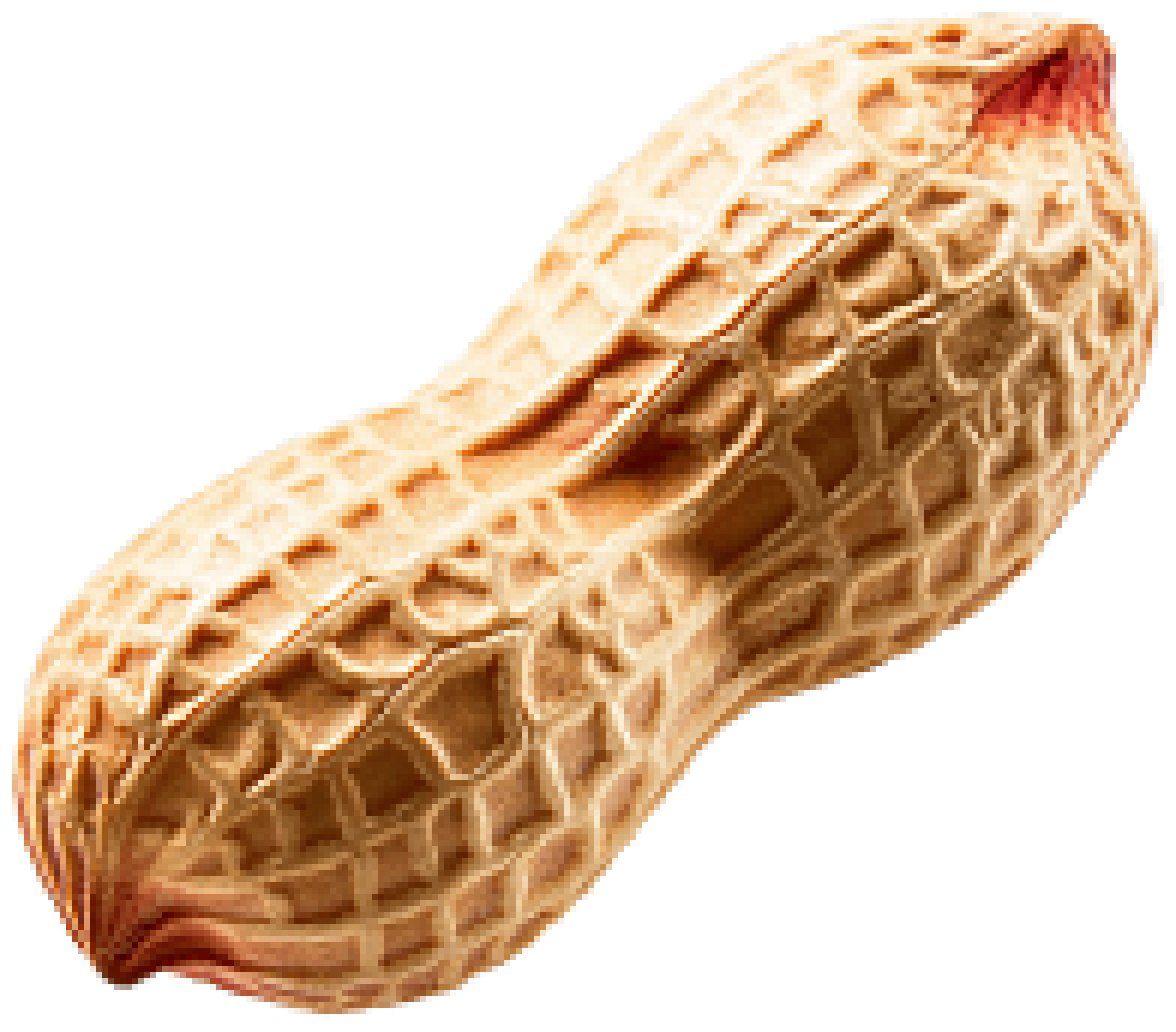
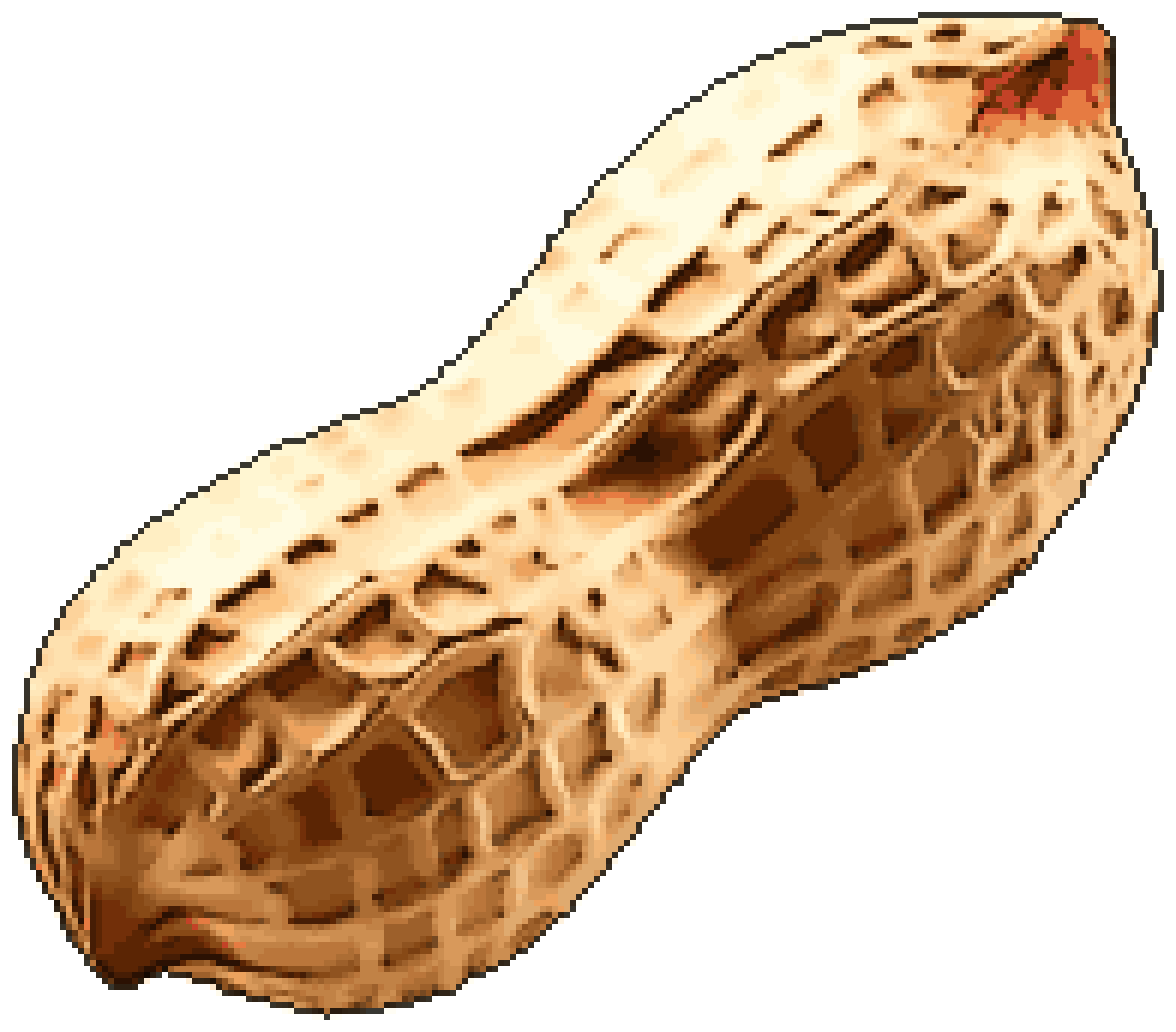
241차 보강: 작물 초상 픽셀 아트 grade — 툰 추상화 파이프라인 · 참고본 실측 · 땅콩 재생성 · 문서
- tools/pixelize_crops.cjs: --style pixelart 기본 = 양방향 평활 ×3 → 대비/채도 → 밝기 6단 양자화 → DoG 먹선 → 셀 다운샘플 → k-means 32색 → 윤곽선
  (--levels/--bilateral/--sigr/--dog/--edge/--sat/--contrast 옵션 · 시험 --out에서는 CropPortraits.ts를 덮지 않음)
- 사용자 첨부 바칸/곽크릴 「픽셀 아트 grade」 변환본 실측(셀 3~4px · 윤곽 어두움 94% · 밝기 양봉) → 기준으로 채택
- public/crops/crop_peanut.png · _icon.png 재생성(팔레트 30 · 테두리 어두움 100%) · 위키 Version 41
- 문서: photo-pixel-art.md §3.5 참고본 기준 · 한계 · 권장 흐름 / 워크로그 241 §5.1 2차 지시 대조 / asset-pipeline 스킬 ⑤ / 백로그 BQ / AGENTS §9 / CLAUDE.md

Claude-Session: https://claude.ai/code/session_01PDUQVGZzM1dMSLCg8bzsf6

Changed region(s): [[0.0, 0.0, 1.0, 0.9922]]

diff --git a/docs/wiki/02-SYSTEMS/photo-pixel-art.md b/docs/wiki/02-SYSTEMS/photo-pixel-art.md
@@ -1,6 +1,7 @@
 # S25. 실사 도트 에셋 — 어종 · 작물 초상(사진 → 도트) 품질 기준
 
 > 상태 **🔶 부분** — 기준 · 도구 · 배선은 241차에 섰고, 작물 초상은 땅콩 1장(시연). 관련 차수 241 · 어종 원본은 2026-07~09 사용자 투입.
+> ⚠ 241차 2차 지시: 「사진 복붙이 아니라 **픽셀 아트 grade**로 조정」 — 기준은 §3.5(사용자 제공 바칸 · 곽크릴 변환본), 도구는 툰 추상화(`--style pixelart`).
 > 캐릭터 · NPC 도트는 [`character-art.md`](character-art.md), 에셋 투입 절차는 스킬 `asset-pipeline`.
 
 ---
@@ -37,6 +38,28 @@
 - 어종은 셀 안에 noise 22의 부드러운 텍스처가 남아 있다(PixelOE 출력을 보간 확대한 흔적). 작물 초상은 **평평한 셀**(최근접 확대)로 굽는다 —
   「노이즈 · 왜곡 제어」 기준에서 더 깨끗하고, 축소해도 떨림이 없다.
 
+## 3.5 픽셀 아트 grade — 사용자 참고본 실측(바칸 · 곽크릴 · 2026-10-13)
+
+사용자가 사진 → 변환본 두 쌍을 보여 주며 「사진을 그대로 블록화한 것은 픽셀 아트 grade가 아니다」라고 지적했다(땅콩 1차본).
+참고본(1024px · AI 변환 뒤 piskel 손질 — `it_bakkan_danax.png` 596px · `it_krill_box.png` 558px로 게임에 들어가 있다)의 특징과 실측:
+
+| 특징 | 참고본 실측 | 사진 블록(1차 땅콩) | 툰 추상화(최종 땅콩) |
+|---|---|---|---|
+| 셀 | 3~4px @1024(가로 250~340셀) · 게임 PNG는 2px @596 | 6px · 196셀 | 6px · 196셀 |
+| 실루엣 테두리의 어두운 비율 | 바칸 94% · 곽크릴 66~75%(흰 상자는 회색 선) | 0% | 100%(색을 22%로 어둡게 — 흰 → 회색 · 베이지 → 갈색) |
+| 밝기 분포 | 양봉(바칸 — 검은 끈 48% · 흰 몸통 30%) — 면이 몇 단으로 갈린다 | 고르게 퍼짐(사진 그대로) | 6단 + 먹선 |
+| 색 수 | 1.6만~6만(안티에일리어싱 · webp 잡음 — 90%를 덮는 색은 바칸 1,550) | 3,700 | 팔레트 30 · 실제 52 |
+| 질감 | 선으로 단순화(크릴 가닥 · 바칸 무늬) | 사진 노이즈 그대로 | DoG 먹선(땅콩 그물 · 바칸 끈 · 로고) |
+
+**툰 추상화 절차**(`tools/pixelize_crops.cjs --style pixelart` — Winnemöller 2006): 작업 해상도(셀 × 2) → 양방향 필터 3회(σs 1.2셀 · σr 22)
+→ 대비 1.1 · 채도 1.15 → 밝기 6단 양자화(부드러운 문턱) → DoG 먹선(σ 0.5셀 · φ 3) → 셀로 면적 평균 → k-평균 32색(디더 없음) → 실루엣 윤곽 → 최근접 ×6.
+같은 사진으로 돌린 바칸은 끈 · 빨간 테 · 로고 · 녹색 라벨이 남고, 땅콩은 그물이 선으로 서며 베이지 면이 띠로 갈린다(`scratchpad/art/cmp_*3.png`).
+
+**한계 · 권장 흐름**: 참고본은 생성 모델이 물체 구조를 알고 다시 그린 것이라, 고전 필터는 끈 두께 · 로고 같은 **구조를 새로 그리지 못하고**
+사진에 있는 선만 뽑는다(곽크릴 사진처럼 배경이 지저분하면 그대로 지저분하다). 주력 물건(바칸 · 곽크릴처럼 화면에 자주 뜨는 것)은
+**사용자의 변환 흐름(AI 변환 → piskel 손질)** 이 정답이고, 이 도구는 ① 수십 장을 한 번에 같은 grade로 맞추는 **정규화기**(셀 · 윤곽 · 팔레트 · 크기) ②
+사진만 있을 때의 **대체본**이다. 조정 손잡이: `--levels`(단) · `--sat` · `--contrast` · `--edge`(선 진하기) · `--dog`(선 굵기) · `--colors`.
+
 ## 4. 세부과제 현황
 
 | 과제 | 상태 | 차수 |
@@ -44,7 +67,8 @@
 | 5기준 실측기 · 어종 53장 표 · 깃발(알파 전면 <255 · 셀 없음 · 셀 굵음 · 작음 · 대문자 파일명) | ✅ | **241** |
 | 작물 초상 파이프라인(배경 벗기기 BFS + 닫힘 · 타이트 크롭 · 면적 평균 셀 격자 · 언샤프 · 최근접 ×6 · 64px 아이콘 · 자동 목록) | ✅ | **241** |
 | 가방 · 상세 · 도감 배선(초상 있으면 그것, 없으면 16px 손그림) | ✅ | **241** |
-| 땅콩 시연(사용자 사진 448×404 → 1176×1032 · 셀 196 · 밝기 158±62 · 색 3,701) | ✅ | **241** |
+| 땅콩 시연(사용자 사진 448×404 → 1176×1032 · 셀 196) — 1차 사진 블록(색 3,701) → **2차 툰 추상화**(팔레트 30 · 색 52 · 테두리 어두움 100% · 그물 먹선) | ✅ | **241** |
+| 픽셀 아트 grade 참고본 실측(§3.5) · 툰 추상화 파이프라인 · 바칸 · 곽크릴 사진으로 대조 | ✅ | **241** |
 | 작물 초상 73장(나머지 작물) | ⬜ | 사용자 사진 투입 대기(컨테이너는 이미지를 못 받는다) |
 | 어종 알파 정규화(252~253 → 255 · 유령 1 → 0) 10장 · 셀 2px 7장 재굽기 · 셀 ≥ 12px 3장 · `So-iuy_mullet.png` 소문자화 | ⬜ | 사용자 결정(바이너리 교체) — `--fix-alpha` 사본으로 미리 본다 |
 | 위키 그림 = 초상(있으면) · 손그림(없으면) | ✅ | **241** — `tools/wiki_img/px_crop_peanut.png`는 초상 3셀/px 축소본 |
@@ -56,6 +80,7 @@
 - 어종 정합은 **두 방향**이 있다 — ⓐ 어종을 기준값(셀 6 · 알파 정규화)으로 다시 굽기, ⓑ 기준을 「셀 4~9 허용」으로 느슨하게.
   권장은 ⓐ의 알파 정규화만 먼저(무손실에 가깝다), 셀 재굽기는 원본 사진이 있을 때.
 - 16px 아이콘을 초상에서 내려 만드는 것은 뭉개진다(실측 — 32셀 64px도 「색 적음」 깃발). 손그림 아이콘은 유지한다.
+- **보정 자료 요청**: 질감 많은 농산물(딸기 · 상추 · 감자 같은 것) 사진 + 사용자 변환본 2~3쌍과 변환에 쓴 도구 · 설정을 받으면 손잡이 기본값을 그 grade에 맞춘다.
 
 ## 6. 함정·불변조건
 
@@ -65,3 +90,5 @@
 4. `check_art_quality.cjs`의 셀 추정은 자기상관 최대값 0.25 문턱 — 그림자 · 비네팅이 큰 사진은 셀 1(사진)로 오판할 수 있다. 눈으로 한 번 더 본다.
 5. 가방 칸(66px)에 초상 원본(1,176px)을 바로 쓰면 축소 떨림이 난다 — 반드시 64px 아이콘 판(`cropicon_*`)을 쓴다(`cropPortraitTexture`가 72px 문턱으로 가른다).
 6. 순수 PNG 코덱(`lib_png.cjs`)은 8비트 비인터레이스만 — 16비트 · 인터레이스 PNG는 크롬 디코드 경로(Playwright)로 넘어간다.
+7. **시험용 `--out` 폴더로 돌릴 때 `CropPortraits.ts`를 덮지 않는다**(241 — 기본 출력 폴더일 때만 목록을 다시 쓴다). 한 번 덮여 `git checkout`으로 되돌린 적이 있다.
+8. **`--style photo`(사진 블록)는 픽셀 아트 grade가 아니다** — 사용자 지적(241). 기본은 `pixelart`(툰 추상화). 배경이 지저분한 사진(곽크릴 쇠판)은 `--nocut`이 아니라 흰 배경 사진을 다시 받는다.

diff --git a/docs/wiki/04-BACKLOG.md b/docs/wiki/04-BACKLOG.md
@@ -11,7 +11,7 @@
 | # | 항목 | 시스템 | 선행 | 규모 |
 |---|---|---|---|---|
 | BH | **229차 잔여** — ① ~~「미끼용 크릴」 그림~~ 230 ✅(`item_krill_bait`) ② ~~파산 뒤 「타이틀로」 = 마지막 침대 저장분~~ 231 ✅(즉시 삭제) ③ 종별 외포란 시기(지금은 4~9월 공통) ④ 바칸 ↔ 쿨러 차별(해수 · 산소) ⑤ 패류독소 발령은 지역 둘뿐(지역 추가 시 `seaZoneOf`) — 상세 [229 §6](03-WORKLOG/2026-10-07-229-law-feedback-krill-economy-board-art.md) | [해루질](02-SYSTEMS/night-hunting-trap.md) | 사용자 답 · 에셋 | 소 |
-| BQ | **241차 잔여(새 작물 · 개량종 · 날로 먹기 · 작물 초상)** — ① **작물 초상 사진 73장 = 사용자 투입**(`food assets/crops/<수확물 기본 id>.png` · 흰 배경 → `node tools/pixelize_crops.cjs`) ② **어종 에셋 정합 = 사용자 결정** — 알파 전면 252~253 + 유령 픽셀 10장(`check_art_quality.cjs --fix-alpha` 사본) · 셀 2px(사진 그대로) 7장 · 셀 ≥ 12px 3장 · `So-iuy_mullet.png` 대문자 ③ 개량종 해금은 241 이후 거둔 횟수만(구세이브 완화 — 전체 `harvests` ≥ 3이면 열기 검토) ④ 스테비아 농법 확장 · 개량종 추가(대추토마토 · 꿀고구마 · 오이맛고추) ⑤ 날로 먹기 벌칙(설사 · 과식)은 사용자 「가벼운 정보」 지시로 미도입 ⑥ 16px 손그림 아이콘을 초상에서 내려 만들기(뭉개짐 — 보류) ⑦ 하모니 원장 F-0088 · F-0095 상태 갱신은 예약 작업 몫 — 상세 [241 §6](03-WORKLOG/2026-10-13-241-new-crops-varieties-raw-eating-crop-art.md) | [홈](02-SYSTEMS/home-base.md) · [실사 도트](02-SYSTEMS/photo-pixel-art.md) | ① ② 사용자 | 소~중 |
+| BQ | **241차 잔여(새 작물 · 개량종 · 날로 먹기 · 작물 초상)** — ① **작물 초상 사진 73장 = 사용자 투입**(`food assets/crops/<수확물 기본 id>.png` · 흰 배경 → `node tools/pixelize_crops.cjs` — 툰 추상화 = 픽셀 아트 grade 근사) · **보정 자료 2~3쌍(사진 ↔ 변환본) + 변환 도구 · 설정 = 사용자** ② **어종 에셋 정합 = 사용자 결정** — 알파 전면 252~253 + 유령 픽셀 10장(`check_art_quality.cjs --fix-alpha` 사본) · 셀 2px(사진 그대로) 7장 · 셀 ≥ 12px 3장 · `So-iuy_mullet.png` 대문자 ③ 개량종 해금은 241 이후 거둔 횟수만(구세이브 완화 — 전체 `harvests` ≥ 3이면 열기 검토) ④ 스테비아 농법 확장 · 개량종 추가(대추토마토 · 꿀고구마 · 오이맛고추) ⑤ 날로 먹기 벌칙(설사 · 과식)은 사용자 「가벼운 정보」 지시로 미도입 ⑥ 16px 손그림 아이콘을 초상에서 내려 만들기(뭉개짐 — 보류) ⑦ 하모니 원장 F-0088 · F-0095 상태 갱신은 예약 작업 몫 — 상세 [241 §6](03-WORKLOG/2026-10-13-241-new-crops-varieties-raw-eating-crop-art.md) | [홈](02-SYSTEMS/home-base.md) · [실사 도트](02-SYSTEMS/photo-pixel-art.md) | ① ② 사용자 | 소~중 |
 | BP | **240차 잔여(도움말 · 위키 · 배포)** — ① **71차 배포 라이브 검증 = 사용자**(컨테이너 프록시가 github.io를 403으로 막음 — 도움말 「알림」 · 속초 건물 · 도감 카드 클릭) ② 위키 「할 일」 교차 참조에 서사 선택지 보상(StoryNarrative) 포함 ③ 도감 어종 · 해양생물 · 요리 카드 클릭 상세 ④ 도움말 EN 전수 하네스 재실행 ⑤ `gen_wiki_images.py` Pillow — 실사 썸네일 재굽기는 PC에서 — 상세 [240 §6](03-WORKLOG/2026-10-12-240-help-notices-wiki-farming-tab-deploy71.md) | [UI](02-SYSTEMS/ui-framework.md) · [도감](02-SYSTEMS/discovery-wiki.md) | ① 사용자 | 소 |
 | BO | **239차 잔여(벡터 건물 · 간판)** — ① 벽 높이(1층 12px · 상한 48) · 녹색 옥상 비중(2/5) · 그림자 길이 · 창 밀도 **사용자 육안 조율** ② 편집기(F7) 「지붕 색 순환」 표시(박공 5색만 남음 — Kenney 썸네일과 불일치) ③ 지붕 위 상호 글자 · 네온 · 설비 ④ 시장 광장 좌판 캡처 POI의 간판 밀도(좌판 그림으로 대체할지) ⑤ 문이 건물 북쪽인 POI는 문 자체가 지붕 아래(`resolvePoiDoor` 몫) ⑥ 새 지역은 `extract_osm_buildings.py` + `hasBuildings` — 상세 [239 §6](03-WORKLOG/2026-10-12-239-vector-buildings-sign-placement.md) | [월드](02-SYSTEMS/world-field.md) | ① 사용자 | 소 |
 | BN | **238차 잔여(관리 작업 · 병해 · 육묘 · 종묘사)** — ① **실제 종묘사 위치 = 사용자 확인**(컨테이너가 지도 · 공공데이터에 못 닿음) → `capture_pois.json` 「설악종묘사」 위경도 교체 · `merge_capture_pois.py` ② **새 작물 5종(참외 · 수박 · 블루베리 · 토마토 · 고구마 — 고구마는 있음) + 개량종(스테비아 토마토 · 호박고구마 · 청양고추)** — 사용자 지시 「위 내용 반영 뒤 다음 차수」 ③ 겨울나기 · 여러해살이 웃거름(철 기준 차례) ④ 잎 · 뿌리 작물 벌레 → 살충제 작업(「벌레」 상태) ⑤ 트레이 파종을 배추 · 부추 · 곤드레 · 당귀로 ⑥ 자재 값(칸 한 번 분 400~800원 — 한 작기 약 2만 원) 체감 조율 ⑦ 구세이브 자라던 고추의 놓친 차례 면제 백필(체감이 거칠면) ⑧ 작업 장면 그림 · 효과음(에셋) ⑨ 237 하네스 「마트 모종」 검사 → 종묘사 — 상세 [238 §6](03-WORKLOG/2026-10-12-238-farm-care-tasks-diseases-nursery-shop.md) | [홈](02-SYSTEMS/home-base.md) | ① ② 사용자 | 소~중 |

diff --git a/docs/wiki/03-WORKLOG/2026-10-13-241-new-crops-varieties-raw-eating-crop-art.md b/docs/wiki/03-WORKLOG/2026-10-13-241-new-crops-varieties-raw-eating-crop-art.md
@@ -54,9 +54,9 @@
 | 수정 | [`ui/ItemDetailPanel.ts`](../../../packages/client-pc/src/ui/ItemDetailPanel.ts) | 줄 「날로 먹기」 · 「원종」 · 「개량종 — 지금 n/3번」 · 본문 꼬리 [날로 먹기] · [익혀야] · [개량종] · 조각 상세 · **작물 초상** |
 | 수정 | `i18n/I18n.ts` · `i18n/en_farm.ts` · `data/HelpContent.ts` | 런타임 사전(메모 · 이유 · 다른 점 · 조각 이름) · 라벨 · 규칙 14 · 도움말 「날로 먹기 · 개량종」 2쪽 + 영어 |
 | 수정 | [`tools/gen_pixel_icons.py`](../../../tools/gen_pixel_icons.py) | 원형 5(둥근 열매 · 줄무늬 · 참외 · 딸기 · 블루베리 송이) · 아이콘 19(작물 8 · 씨앗 2 · 모종 7 · 순 1 · 발효액) |
-| 신설 | [`tools/pixelize_crops.cjs`](../../../tools/pixelize_crops.cjs) · [`tools/lib_png.cjs`](../../../tools/lib_png.cjs) | **작물 사진 → 어종 기준 도트 초상**(배경 벗기기 · 닫힘 · 셀 6px · 긴 변 192셀 · 언샤프 · 64px 아이콘 · `CropPortraits.ts` 자동 목록) — Pillow 없이 |
+| 신설 | [`tools/pixelize_crops.cjs`](../../../tools/pixelize_crops.cjs) · [`tools/lib_png.cjs`](../../../tools/lib_png.cjs) | **작물 사진 → 픽셀 아트 grade 초상**(배경 벗기기 · 닫힘 · 셀 6px · 긴 변 192셀 · **툰 추상화** = 양방향 필터 → 6단 양자화 → DoG 먹선 → 32색 · 실루엣 윤곽 · 64px 아이콘 · `CropPortraits.ts`) — Pillow 없이. `--style photo`(1차 사진 블록) · `kuwahara`(v2) 보존 |
 | 신설 | [`tools/check_art_quality.cjs`](../../../tools/check_art_quality.cjs) | 실사 도트 에셋 **5기준 실측기**(셀 주기 · 알파 · 색 수 · 대비 · 경계 · 질감 · 노이즈 · 깃발 · `--fix-alpha`) |
-| 신설 | `public/crops/crop_peanut.png` · `_icon.png` · `food assets/crops/crop_peanut.png` · `data/CropPortraits.ts` | 땅콩 시연(사용자 사진) — 1176×1032 · 셀 6 · 196셀 · 밝기 158±62 |
+| 신설 | `public/crops/crop_peanut.png` · `_icon.png` · `food assets/crops/crop_peanut.png` · `data/CropPortraits.ts` | 땅콩 시연(사용자 사진) — 1176×1032 · 셀 6 · 196셀. **1차본은 사진 블록화라 사용자 지적 → 2차 툰 추상화**(팔레트 30 · 색 52 · 테두리 어두움 100%) |
 | 수정 | `scenes/BootScene.ts` · `ui/ItemIcon.ts` | 초상 로드(`cropimg_*` · `cropicon_*`) · 칸 ≤ 72px은 아이콘 판, 그 위는 초상 |
 | 수정 | `tools/gen_game_wiki_data.mjs` · `tools/game_wiki_template.html` · `tools/wiki_img/` | 작물 상세 「날로 먹을 수 있나」 · 「개량종」 절 · 태그 · 아이템 「농사」 절 줄 · 조각 역참조 · 그림 20장 |
 | 수정 | 스킬 수치 · [E] 문서 8 + 7곳 | §2 |
@@ -89,8 +89,20 @@
 재현: `node scratchpad/r241.cjs`(지급 · 상세 · 게이트 · 초상) · `r241b.cjs`(우클릭 메뉴 — 가방은 `toggleInventory()` 직접 호출 · `currentTab = 'food'`) ·
 `wiki241.cjs`(file:// 위키) · 스크린샷 `scratchpad/shots/241_*.png`.
 
+### 5.1 2차 지시 — 「픽셀 아트 grade」 대조(2026-10-13)
+
+사용자: 「생땅콩 이미지를 내가 전달해준 걸 그대로 복붙한거야…? 픽셀 아트 grade로 어느 정도는 조정해야지」 + 참고 두 쌍(바칸 사진 ↔ 변환본 · 곽크릴 사진 ↔ 변환본).
+
+| 대상 | 방법 | 결과 |
+|---|---|---|
+| 참고본 실측 | `scratchpad/art/palette_measure.cjs` · `check_art_quality.cjs` | 바칸 변환본: 1024px · 셀 3~4px · 실루엣 테두리 어두움 94% · 밝기 양봉(검정 48% · 흰 30%) · 90% 덮는 색 1,550 / 곽크릴: 테두리 66~75% |
+| v2 쿠와하라 + 24색 + 밝기 차 먹선 | 같은 사진 3장 | 실패 — 바칸 끈 · 빨간 테 · 로고 소실, 땅콩은 갈색 얼룩(`cmp_bakkan.png` · `cmp_peanut.png`) |
+| v3 툰 추상화(양방향 3회 · 6단 · DoG 선 · 32색 · 윤곽) | 같은 사진 3장 + 변형 3종(채도 · 대비 · 단) | 바칸 끈 · 테 · 로고 · 라벨 유지, 땅콩 그물 = 먹선 · 면 띠(`cmp_bakkan3.png` · `cmp_peanut3.png` · `sweep_*.png`). 기본값 = B(채도 1.15 · 대비 1.1 · 6단 · φ 3) |
+| 최종 땅콩 | `node tools/pixelize_crops.cjs --only crop_peanut` | 팔레트 30 · 색 52 · 테두리 어두움 100% · 위키 그림 392×344 교체 |
+
 ## 6. 잔여 — 이번에 안 한 것
 
+- **픽셀 아트 grade 보정** — 고전 필터는 구조를 새로 그리지 못한다(참고본은 생성 모델 + piskel). 질감 많은 농산물 사진 ↔ 변환본 2~3쌍과 변환 도구 · 설정을 받아 기본값을 맞춘다(사용자 제안 「에셋이 더 필요하면 첨부」).
 - **작물 사진 73장**(땅콩 빼고) — 컨테이너가 이미지를 받아 오지 못한다(프록시 차단). 사용자가 `food assets/crops/<수확물 기본 id>.png|jpg`로 넣으면
   `node tools/pixelize_crops.cjs` 한 번으로 초상 · 아이콘 · 목록이 생긴다(저작권이 깨끗한 사진 — 어종처럼).
 - **어종 에셋 정합(알파 정규화 · 셀 굵기 통일)** — `check_art_quality.cjs --fix-alpha`가 사본(`.fixed.png`)을 만든다. 10장 교체 · 셀 2px 7장의 재굽기는

diff --git a/.agents/AGENTS.md b/.agents/AGENTS.md
@@ -482,8 +482,8 @@ npx pnpm --filter @tra/client-pc run typecheck → ✅ 0 오류
 - 작물 76종(참외 · 수박 · 블루베리 · 토마토 · 딸기 + 개량종 스테비아 토마토 · 호박고구마 · 청양고추 — `CropDef.variant` · 원종 3번 거두면 종묘사 `requiresHarvests` · `FarmStore.harvestsBy`).
 - 날로 먹기 `CropRawEatDatabase`(84종 전수 — 먹는다 · 나눠서(조각 `_pc` · 「나누기」) · 못 먹는다) · 영양 파생 · 매운 것 수분 − · 못 먹는 것은 「사용하기」 없음 ·
   상세 「날로 먹기 · 원종 · 개량종」 · 도움말 · 위키 Version 40.
-- 작물 그림: 어종 53장 5기준 실측(`tools/check_art_quality.cjs`) → `tools/pixelize_crops.cjs`(사진 → 셀 6px 초상 + 64px 아이콘 · `CropPortraits.ts`) · 가방 · 상세 배선 ·
-  땅콩 시연 · 새 페이지 `photo-pixel-art.md`.
+- 작물 그림: 어종 53장 5기준 실측(`tools/check_art_quality.cjs`) → `tools/pixelize_crops.cjs`(사진 → **툰 추상화 = 픽셀 아트 grade** · 셀 6px 초상 + 64px 아이콘 · `CropPortraits.ts`) ·
+  가방 · 상세 배선 · 땅콩 시연 · 새 페이지 `photo-pixel-art.md`(§3.5 사용자 참고본 바칸 · 곽크릴 실측 — 사진 블록화는 grade가 아니다).
 - 스킬 수치 정본 = 코드 **95노드(유료 90 + 히든 5) · Σ 216**(193차 시작 보너스 +1 · 235차 농사 +2에서 문서가 어긋났다) — 문서 8곳 · [E] → [F] 7곳 정정.
 - 함정: 수확물 템플릿에 효과 필드가 없으면 거둔 직후 먹어도 효과 없음 · 날로 먹기 표 전수 시험 · `harvestsBy`는 전체 `harvests`와 다른 수.
   상세: [241차 워크로그](../docs/wiki/03-WORKLOG/2026-10-13-241-new-crops-varieties-raw-eating-crop-art.md).

diff --git a/CLAUDE.md b/CLAUDE.md
@@ -49,7 +49,7 @@
   괜찮으면 규칙을 켠 채로 새 맵 확장. 차수별 잔여는 PLAN §2-3.
 - **241차**: **새 작물 5종 · 개량종 3종 · 날로 먹기 · 작물 초상 기준 · 스킬 수치 정본** — 참외 · 수박 · 블루베리 · 토마토 · 딸기(작물 76) ·
   스테비아 토마토 · 호박고구마 · 청양고추(원종 3번 거두면 종묘사 — `harvestsBy`) · 날로 먹기 84종 전수(먹는다 46 · 나눠서 13 조각 · 못 먹는다 25 — 사용하기 없음) ·
-  어종 53장 5기준 실측 → `tools/pixelize_crops.cjs`(사진 → 셀 6px 초상) · `check_art_quality.cjs` · 땅콩 시연 · 위키 Version 40 ·
+  어종 53장 5기준 실측 → `tools/pixelize_crops.cjs`(사진 → 툰 추상화 = 픽셀 아트 grade · 셀 6px 초상) · `check_art_quality.cjs` · 땅콩 시연 · 위키 Version 41 ·
   스킬 정본 = 코드(95노드 · Σ 216 — 193 · 235차에 문서가 어긋남) · [E] → [F]. **다음 = 작물 사진 73장 투입(사용자) · 어종 알파 정규화 결정(사용자)**.
   상세 `docs/wiki/03-WORKLOG/2026-10-13-241-new-crops-varieties-raw-eating-crop-art.md`.
 - **240차**: **알림 가이드 · 위키 「농사」 탭 · 도감 카드 상세 · 71차 배포** — F1 「알림 — 무엇이 언제 뜨나」 · 설치물 문구 현행화 · 239 건물 · 간판 도움말 ·
